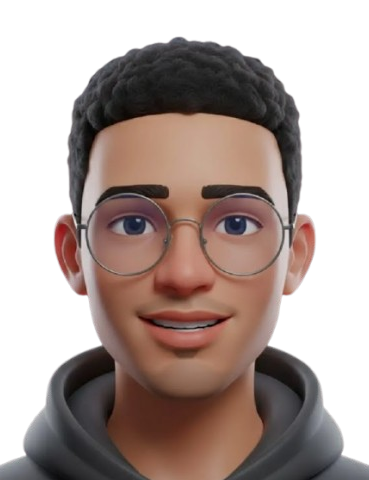
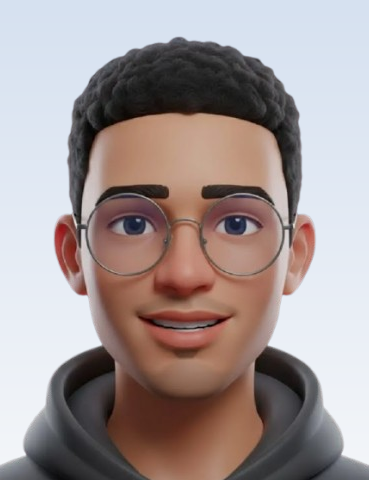
fix: resolve font tokens and tighten hero against the reference
The typography was silently broken. Tailwind emits @theme tokens onto
:root, but next/font's --font-bricolage and --font-poppins were declared
on <body>. At :root those references were undefined, which made
--font-display and --font-body invalid at computed-value time, so every
heading and paragraph fell back to the default system sans. Moving the
font classes to <html> fixes it; Bricolage Grotesque and Poppins now
actually render.

Also brought the hero in line with the reference:
- Replaced the `/70`-style opacity modifiers with explicit sRGB tokens
  (--color-muted, --color-faint). Tailwind mixes those modifiers in
  oklab, which shifted this slightly-blue ink noticeably cooler than the
  reference's plain rgba().
- Two-tone wordmark: given name grey (#5d6063), surname full ink.
- Dropped the blue scroll-spy underline in the nav. The reference has no
  active indicator, and the underline read as noise; scroll-spy is now
  expressed as ink weight alone.
- Hero badge gains the reference's hairline outline.
- Hero portrait sits on a soft gradient backdrop with a heavier shadow
  ramp, so it reads as a portrait tile rather than a cut-out floating on
  white.
- Disabled the Next dev-tools badge, which overlapped the layout.

Verified: lint, tsc and next build clean; all 20 interaction checks still
pass; computed h1 font-family confirmed as Bricolage Grotesque.

Changed region(s): [[0.0, 0.0, 1.0, 0.5938]]

diff --git a/components/Navbar.tsx b/components/Navbar.tsx
@@ -15,8 +15,9 @@ export function Wordmark({ className = '' }: { className?: string }) {
       className={`font-display text-[1.375rem] leading-[0.92] font-semibold tracking-[-0.03em] md:text-[1.5rem] ${className}`}
       aria-label={`${site.name}, back to top`}
     >
-      <span className="block">{site.firstName}</span>
-      <span className="block">{site.lastName}</span>
+      {/* Two-tone, as on the reference: given name in grey, surname in full ink. */}
+      <span className="block text-wordmark">{site.firstName}</span>
+      <span className="block text-ink">{site.lastName}</span>
     </Link>
   )
 }
@@ -87,19 +88,15 @@ export function Navbar() {
                   <Link
                     href={item.href}
                     aria-current={isActive ? 'true' : undefined}
-                    className={`relative text-base transition-colors duration-200 ease-signature hover:text-ink ${
-                      isActive ? 'text-ink' : 'text-ink/65'
+                    /* The reference has no active indicator at all, so scroll-spy
+                       is expressed purely as ink weight. A coloured underline
+                       read as noise against how restrained the rest of the
+                       chrome is. */
+                    className={`text-base transition-colors duration-200 ease-signature hover:text-ink ${
+                      isActive ? 'text-ink' : 'text-muted'
                     }`}
                   >
                     {item.label}
-                    {isActive && (
-                      /* Shared layoutId slides the indicator between links. */
-                      <motion.span
-                        layoutId="nav-active"
-                        className="absolute -bottom-1.5 left-0 h-[2px] w-full rounded-full bg-accent"
-                        transition={{ duration: 0.3, ease }}
-                      />
-                    )}
                   </Link>
                 </li>
               )

diff --git a/app/globals.css b/app/globals.css
@@ -15,6 +15,13 @@
   --color-ink: #191d21;
   --color-accent: #4d80d1;
 
+  /* Explicit alpha variants rather than Tailwind's `/70` modifier. The modifier
+     mixes in oklab, which shifts this slightly-blue ink noticeably cooler; the
+     reference uses plain sRGB alpha. */
+  --color-muted: rgb(25 29 33 / 0.7);
+  --color-faint: rgb(25 29 33 / 0.55);
+  --color-wordmark: #5d6063;
+
   /* Translucent fills for the blurred nav. */
   --color-glass: rgb(255 255 255 / 0.7);
   --color-glass-panel: rgb(242 242 242 / 0.7);
@@ -52,6 +59,11 @@
   --shadow-ramp-lg:
     0 0.74px 0.74px -0.75px rgb(0 0 0 / 0.1), 0 2.02px 2.02px -1.5px rgb(0 0 0 / 0.09),
     0 5.13px 5.13px -2.25px rgb(0 0 0 / 0.08), 0 16px 16px -3px rgb(0 0 0 / 0.05);
+  /* The inline hero portrait carries a heavier ramp than the cards: on the
+     reference it lifts clearly off the panel. */
+  --shadow-portrait:
+    0 1px 1px -0.5px rgb(0 0 0 / 0.1), 0 3px 3px -1px rgb(0 0 0 / 0.1),
+    0 8px 8px -2px rgb(0 0 0 / 0.1), 0 20px 22px -4px rgb(0 0 0 / 0.12);
   --shadow-ramp-accent:
     0 0.6px 0.6px -1.25px rgb(77 128 209 / 0.4), 0 2.29px 2.29px -2.5px rgb(77 128 209 / 0.32),
     0 10px 10px -3.75px rgb(77 128 209 / 0.24);
@@ -117,7 +129,7 @@
     font-weight: 500;
     letter-spacing: 0.09em;
     text-transform: uppercase;
-    color: color-mix(in srgb, var(--color-ink) 55%, transparent);
+    color: var(--color-faint);
   }
 
   /* Every section is a 40px-radius card inset from the viewport edges, sitting

diff --git a/components/About.tsx b/components/About.tsx
@@ -22,12 +22,12 @@ export function About() {
             <Reveal delay={0.05}>
               <h2 className="text-4xl md:text-5xl">
                 <span className="block">{about.headingLineOne}</span>
-                <span className="block text-ink/40">{about.headingLineTwo}</span>
+                <span className="block text-faint">{about.headingLineTwo}</span>
               </h2>
             </Reveal>
 
             <Reveal delay={0.1} className="flex flex-col items-start gap-6">
-              <p className="max-w-xl text-base leading-relaxed text-ink/70">
+              <p className="max-w-xl text-base leading-relaxed text-muted">
                 {about.paragraphs[0]}
               </p>
 
@@ -36,7 +36,7 @@ export function About() {
                 {about.badge}
               </span>
 
-              <p className="max-w-xl text-base leading-relaxed text-ink/70">
+              <p className="max-w-xl text-base leading-relaxed text-muted">
                 {about.paragraphs[1]}
               </p>
             </Reveal>
@@ -58,7 +58,7 @@ export function About() {
                     </span>
                     <h3 className="text-lg">{item.title}</h3>
                   </div>
-                  <p className="text-sm leading-relaxed text-ink/60">{item.body}</p>
+                  <p className="text-sm leading-relaxed text-muted">{item.body}</p>
                 </li>
               ))}
             </ul>

diff --git a/components/Footer.tsx b/components/Footer.tsx
@@ -16,7 +16,7 @@ export function Footer() {
         <div className="flex flex-col gap-10 md:flex-row md:items-start md:justify-between">
           <div className="flex flex-col gap-3">
             <Wordmark />
-            <p className="max-w-xs text-sm leading-relaxed text-ink/50">{site.tagline}</p>
+            <p className="max-w-xs text-sm leading-relaxed text-faint">{site.tagline}</p>
           </div>
 
           <nav aria-label="Social" className="flex flex-col gap-3">
@@ -26,7 +26,7 @@ export function Footer() {
                 href={item.href}
                 target="_blank"
                 rel="noopener noreferrer"
-                className="text-sm text-ink/60 transition-colors duration-200 ease-signature hover:text-accent"
+                className="text-sm text-muted transition-colors duration-200 ease-signature hover:text-accent"
               >
                 {item.label}
               </Link>
@@ -34,7 +34,7 @@ export function Footer() {
           </nav>
         </div>
 
-        <div className="mt-12 flex flex-col gap-2 border-t border-line pt-6 text-xs text-ink/40 sm:flex-row sm:items-center sm:justify-between">
+        <div className="mt-12 flex flex-col gap-2 border-t border-line pt-6 text-xs text-faint sm:flex-row sm:items-center sm:justify-between">
           <p>
             © {new Date().getFullYear()} {site.name}
           </p>

diff --git a/components/Hero.tsx b/components/Hero.tsx
@@ -15,7 +15,7 @@ function ScrollCue() {
       initial={reduced ? undefined : { opacity: 0.001, y: 12 }}
       animate={{ opacity: 1, y: 0 }}
       transition={{ ...spring, delay: reduced ? 0 : 2.5 }}
-      className="flex flex-col items-center text-ink/30"
+      className="flex flex-col items-center text-faint"
       aria-hidden="true"
     >
       {[0, 1].map((i) => (
@@ -92,7 +92,7 @@ export function Hero() {
             /* Sized to the line box rather than the cap height, which is what
                makes it read as part of the headline. 12px radius, white frame,
                layered shadow, as measured on the reference. */
-            className="relative inline-block h-[1.5em] w-[1.44em] shrink-0 overflow-hidden rounded-[0.13em] border-[0.04em] border-white bg-white shadow-ramp-lg"
+            className="relative inline-block h-[1.5em] w-[1.44em] shrink-0 overflow-hidden rounded-[0.13em] border-[0.045em] border-white bg-white shadow-portrait"
           >
             <Image
               src="/portrait.png"
@@ -109,7 +109,7 @@ export function Hero() {
 
         <motion.p
           {...rise(0.25)}
-          className="max-w-xl text-base leading-[1.8] text-ink/70"
+          className="max-w-xl text-base leading-[1.8] text-muted"
         >
           {hero.subline}
         </motion.p>

diff --git a/components/Faq.tsx b/components/Faq.tsx
@@ -45,7 +45,7 @@ export function Faq() {
                     onClick={() => setOpen(isOpen ? null : i)}
                     className="flex w-full items-center gap-4 py-6 text-left transition-colors duration-200 ease-signature hover:text-accent"
                   >
-                    <span className="text-xs font-semibold text-ink/35">
+                    <span className="text-xs font-semibold text-faint">
                       {String(i + 1).padStart(2, '0')}.
                     </span>
 
@@ -78,7 +78,7 @@ export function Faq() {
                       transition={{ duration: 0.3, ease }}
                       className="overflow-hidden"
                     >
-                      <p className="pb-6 pl-8 text-sm leading-relaxed text-ink/60 md:pl-9">
+                      <p className="pb-6 pl-8 text-sm leading-relaxed text-muted md:pl-9">
                         {item.answer}
                       </p>
                     </motion.div>

diff --git a/components/Contact.tsx b/components/Contact.tsx
@@ -10,7 +10,7 @@ import { Section } from './ui/Section'
 type Errors = Partial<Record<'name' | 'email' | 'message', string>>
 
 const inputClasses =
-  'w-full rounded-xl border border-line bg-white px-4 py-3 text-sm text-ink placeholder:text-ink/35 transition-colors duration-200 ease-signature focus:border-accent focus-visible:outline-none'
+  'w-full rounded-xl border border-line bg-white px-4 py-3 text-sm text-ink placeholder:text-faint transition-colors duration-200 ease-signature focus:border-accent focus-visible:outline-none'
 
 export function Contact() {
   const [errors, setErrors] = useState<Errors>({})
@@ -132,7 +132,7 @@ export function Contact() {
                 {busy ? 'Sending…' : contactSection.submit}
               </button>
 
-              <p className="text-sm text-ink/50">
+              <p className="text-sm text-faint">
                 or{' '}
                 <a
                   href={`mailto:${site.email}`}

diff --git a/app/layout.tsx b/app/layout.tsx
@@ -35,8 +35,13 @@ export const metadata: Metadata = {
 
 export default function RootLayout({ children }: { children: React.ReactNode }) {
   return (
-    <html lang="en">
-      <body className={`${bricolage.variable} ${poppins.variable} font-body`}>
+    /* The font variables must land on <html>, not <body>. Tailwind emits the
+       @theme tokens (--font-display, --font-body) onto :root, and those tokens
+       reference these variables. Defined only on <body>, they are undefined at
+       :root, which makes the whole token invalid and silently drops every
+       heading and paragraph back to the default system sans. */
+    <html lang="en" className={`${bricolage.variable} ${poppins.variable}`}>
+      <body className="font-body">
         <SmoothScroll />
         {children}
       </body>

diff --git a/components/Skills.tsx b/components/Skills.tsx
@@ -80,13 +80,13 @@ export function Skills() {
             </span>
 
             <h3 className="text-xl">{card.title}</h3>
-            <p className="text-sm leading-relaxed text-ink/60">{card.body}</p>
+            <p className="text-sm leading-relaxed text-muted">{card.body}</p>
 
             <ul className="mt-auto flex flex-wrap gap-2 pt-2">
               {card.tags.map((tag) => (
                 <li
                   key={tag}
-                  className="rounded-full border border-line bg-panel px-3 py-1 text-[11px] tracking-[0.03em] text-ink/60"
+                  className="rounded-full border border-line bg-panel px-3 py-1 text-[11px] tracking-[0.03em] text-muted"
                 >
                   {tag}
                 </li>

diff --git a/components/ui/Pill.tsx b/components/ui/Pill.tsx
@@ -4,9 +4,9 @@ import type { ReactNode } from 'react'
 type Variant = 'badge' | 'dark' | 'light'
 
 const variants: Record<Variant, string> = {
-  /** The hero badge: soft grey fill, no border, wide-tracked uppercase Poppins. */
+  /** The hero badge: soft grey fill with a hairline outline, wide-tracked caps. */
   badge:
-    'bg-panel-2/80 text-ink text-[0.8125rem] md:text-base tracking-[0.09em] uppercase px-5 py-2.5',
+    'bg-panel-2/70 border border-line/80 text-ink text-[0.8125rem] md:text-base tracking-[0.09em] uppercase px-5 py-2',
   /** The primary call to action: solid near-black capsule. */
   dark: 'bg-ink text-white text-sm font-medium px-6 py-3 hover:bg-ink/85 shadow-ramp',
   /** Secondary capsule on tinted panels. */

diff --git a/components/ProjectCard.tsx b/components/ProjectCard.tsx
@@ -67,14 +67,14 @@ export function ProjectCard({ project, index }: { project: Project; index: numbe
             <motion.span
               variants={{ hover: { x: 3, y: -3 } }}
               transition={{ duration: 0.25, ease }}
-              className="text-ink/40 group-hover:text-accent"
+              className="text-faint group-hover:text-accent"
             >
               <ArrowIcon />
             </motion.span>
           )}
         </h3>
 
-        <p className="text-sm leading-relaxed text-ink/60">{project.description}</p>
+        <p className="text-sm leading-relaxed text-muted">{project.description}</p>
       </div>
     </motion.div>
   )

diff --git a/components/ui/Section.tsx b/components/ui/Section.tsx
@@ -54,7 +54,7 @@ export function Section({
           <Eyebrow>{eyebrow}</Eyebrow>
           <h2 className="max-w-3xl text-4xl md:text-5xl">{heading}</h2>
           {intro && (
-            <p className="max-w-2xl text-base leading-[1.8] text-ink/70">{intro}</p>
+            <p className="max-w-2xl text-base leading-[1.8] text-muted">{intro}</p>
           )}
         </Reveal>
         <div className="mt-16 md:mt-20">{children}</div>
